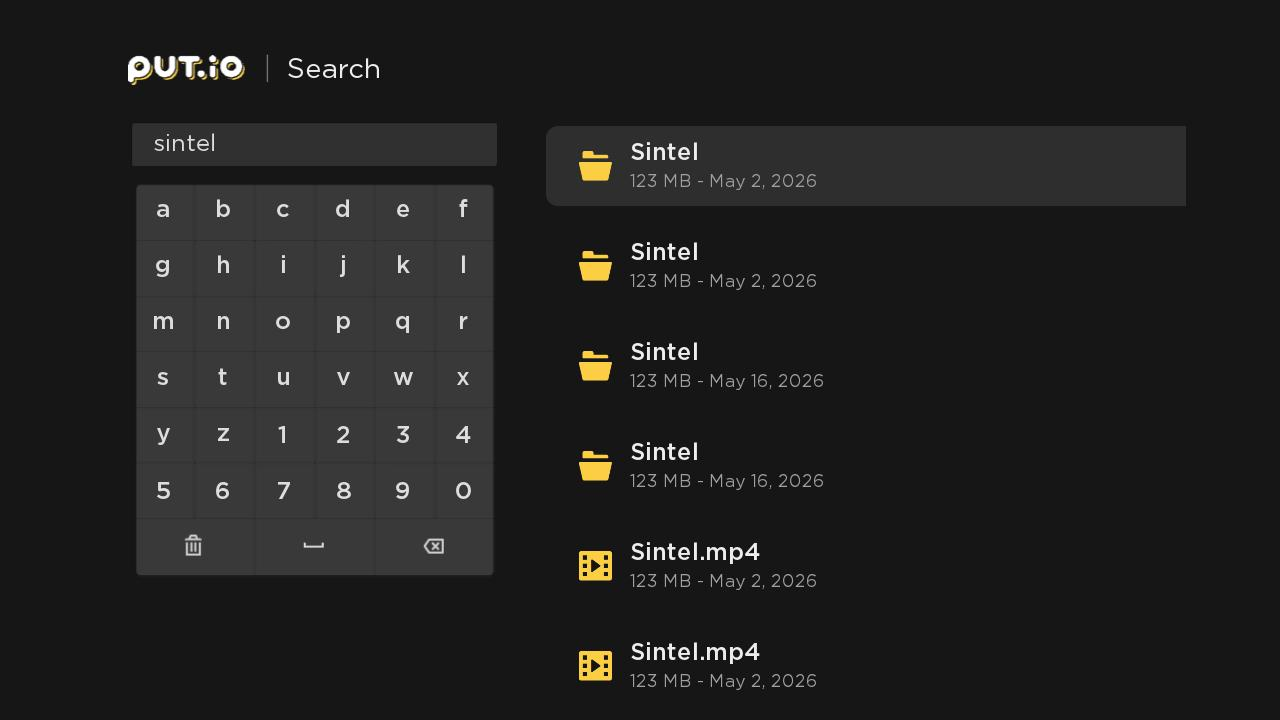
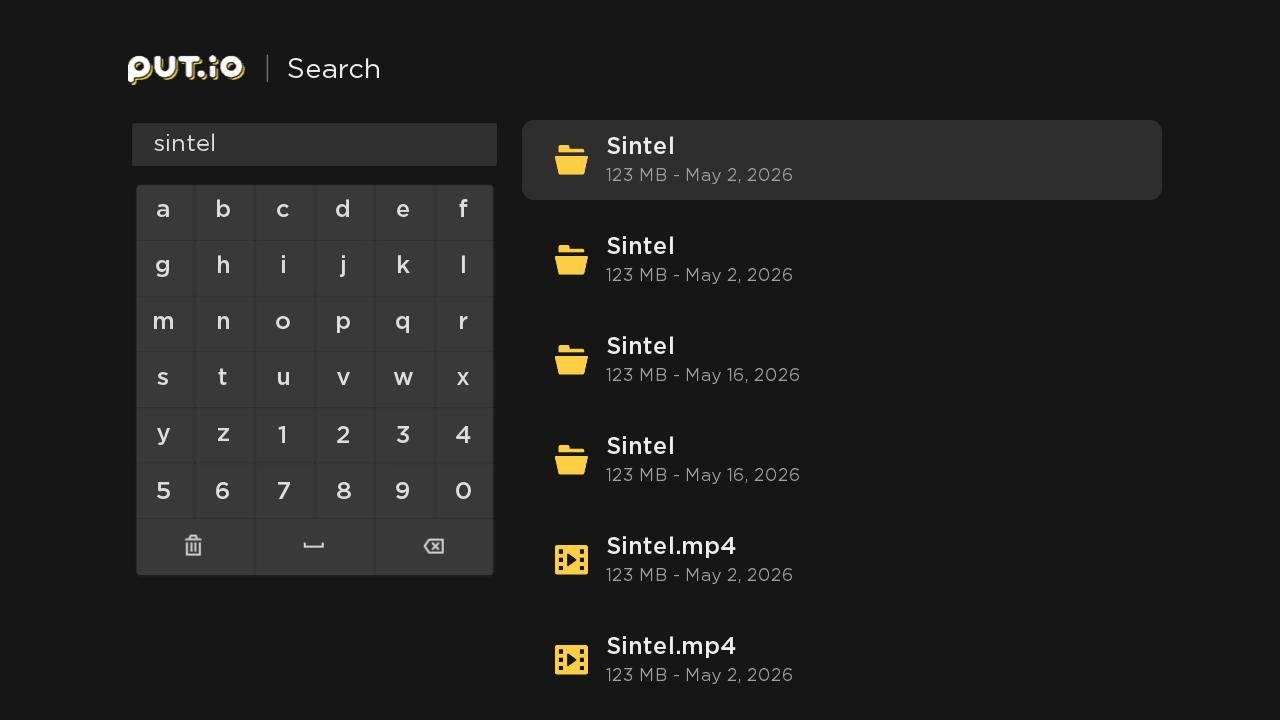
fix(roku): render list focus with native bitmap

diff --git a/.vref/index.html b/.vref/index.html
@@ -385,7 +385,7 @@
       <div class="card-body">
         <div class="item-info">
           <div class="item-name">Search result focused</div>
-          <div class="item-meta"><span>Search</span><span>1280x720 / 43 KB</span></div>
+          <div class="item-meta"><span>Search</span><span>1280x720 / 42 KB</span></div>
           <div class="item-tags"><span class="tag">search</span><span class="tag">focus</span></div>
         </div>
       </div>